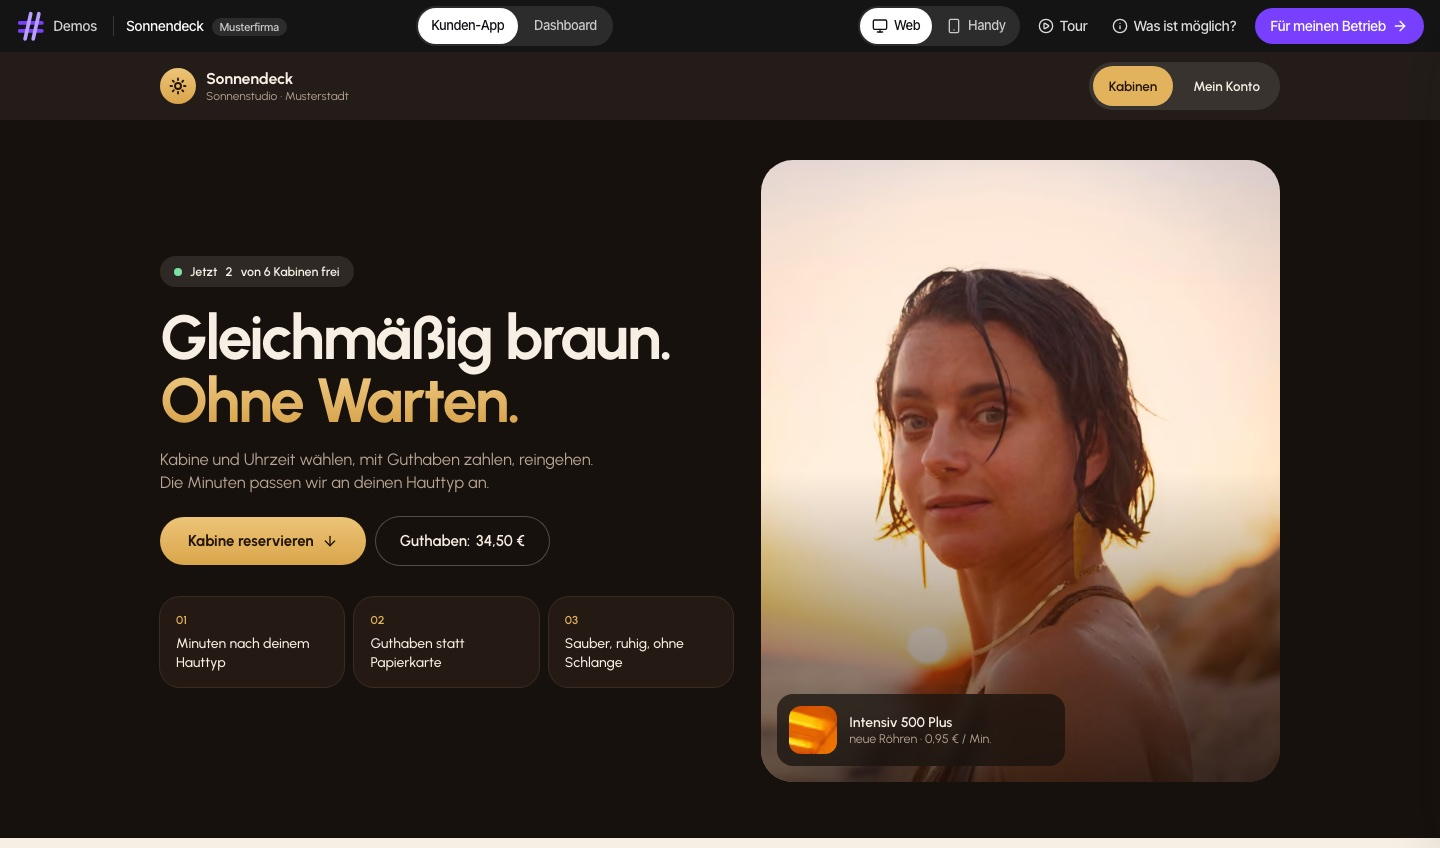
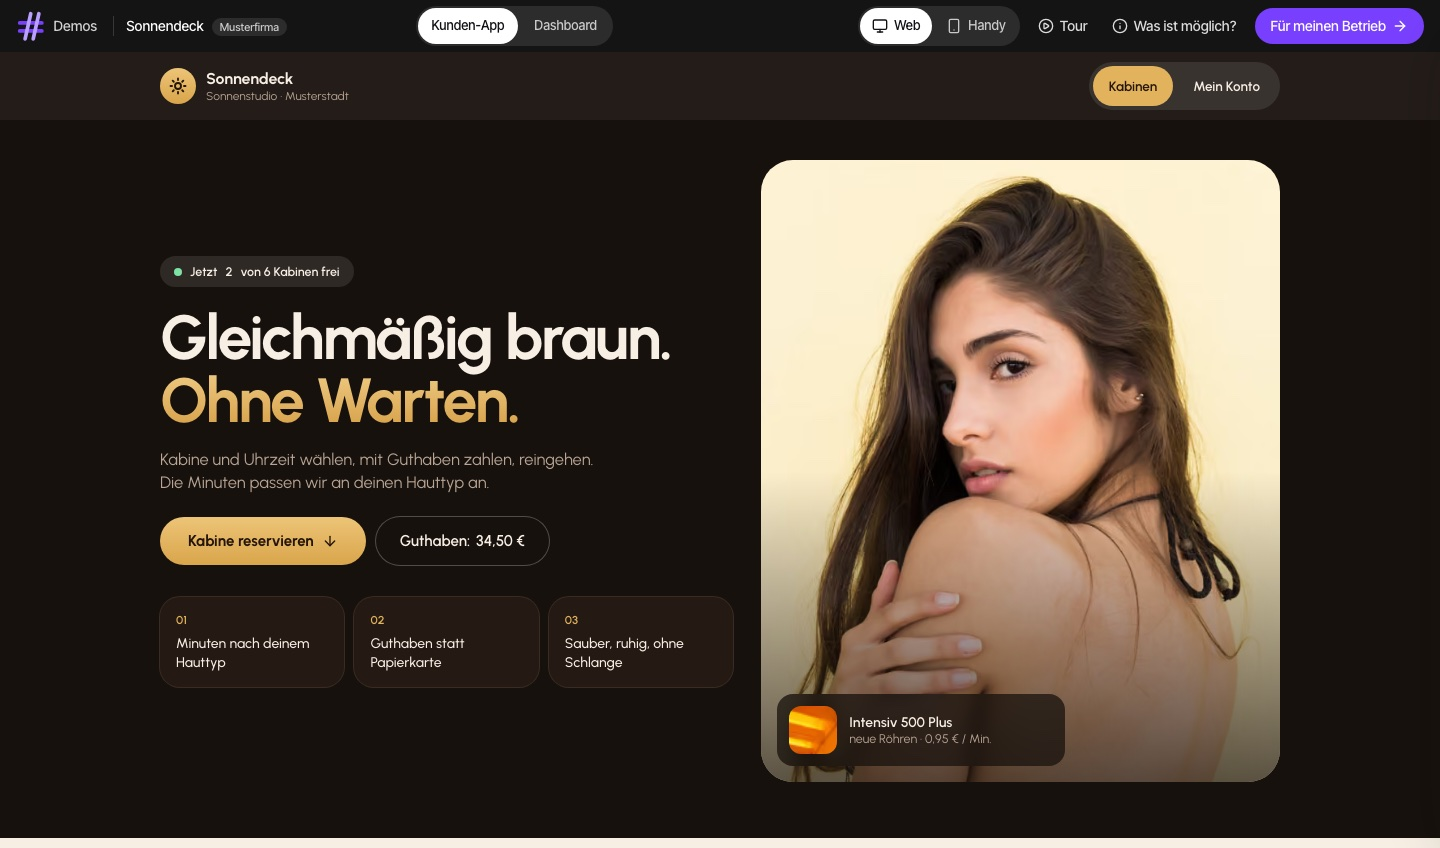
Sonnenstudio-Demo: Bildverweis, Vorschaubild und Nachweis zum neuen Foto

Changed region(s): [[0.5312, 0.184, 0.9062, 0.9198], [0.7812, 0.184, 0.9062, 0.3373], [0.5312, 0.184, 0.5938, 0.2453]]

diff --git a/src/demos/apps/sonnenstudio.tsx b/src/demos/apps/sonnenstudio.tsx
@@ -262,7 +262,7 @@ function Cabins({ sessions, locked, now, balance, onPay, onAdd }: StoreProps) {
           </div>
           <div className="relative">
             <div className="relative aspect-[4/5] overflow-hidden rounded-[2rem] @dmd:aspect-[5/6]">
-              <Image src={`${P}s-hero.webp`} alt="Frau mit gebräunter Haut im warmen Abendlicht" fill priority sizes="(min-width: 48rem) 34rem, 100vw" className="object-cover object-[center_20%]" />
+              <Image src={`${P}s-model.webp`} alt="Frau mit gleichmäßig gebräunter Haut blickt über die Schulter" fill priority sizes="(min-width: 48rem) 34rem, 100vw" className="object-cover object-[center_15%]" />
               <div className="absolute inset-0 bg-gradient-to-t from-[#17110d]/70 via-transparent to-transparent" aria-hidden />
             </div>
             <div className="absolute inset-x-4 bottom-4 flex items-center gap-3 rounded-2xl bg-[#17110d]/75 p-3 backdrop-blur @dsm:right-auto @dsm:w-72">

diff --git a/docs/IMAGE-CREDITS.md b/docs/IMAGE-CREDITS.md
@@ -130,7 +130,7 @@ Fotos von [Unsplash](https://unsplash.com/license) (freie Lizenz, kommerziell nu
 | public/images/demo/photos/m-work2.webp | Hayley Kim Studios | https://images.unsplash.com/photo-1589710751893-f9a6770ad71b |
 | public/images/demo/photos/m-work3.webp | karelys Ruiz | https://images.unsplash.com/photo-1552693673-1bf958298935 |
 | public/images/demo/photos/m-work4.webp | engin akyurt | https://images.unsplash.com/photo-1616394584738-fc6e612e71b9 |
-| public/images/demo/photos/s-hero.webp | artem belinsky | https://images.unsplash.com/photo-1693755854711-3e4d507e0d7c |
+| public/images/demo/photos/s-model.webp | Rafaella Mendes Diniz | https://images.unsplash.com/photo-1524502397800-2eeaad7c3fe5 |
 | public/images/demo/photos/s-glow.webp | Lawless Capture | https://images.unsplash.com/photo-1601583844062-7487c80b56b7 |
 | public/images/demo/photos/s-skin.webp | Alef Morais | https://images.unsplash.com/photo-1765813102971-47144ca56d03 |
 | public/images/demo/photos/s-lounge.webp | Sherzod Gulomov | https://images.unsplash.com/photo-1693578538512-fc66f318c833 |
